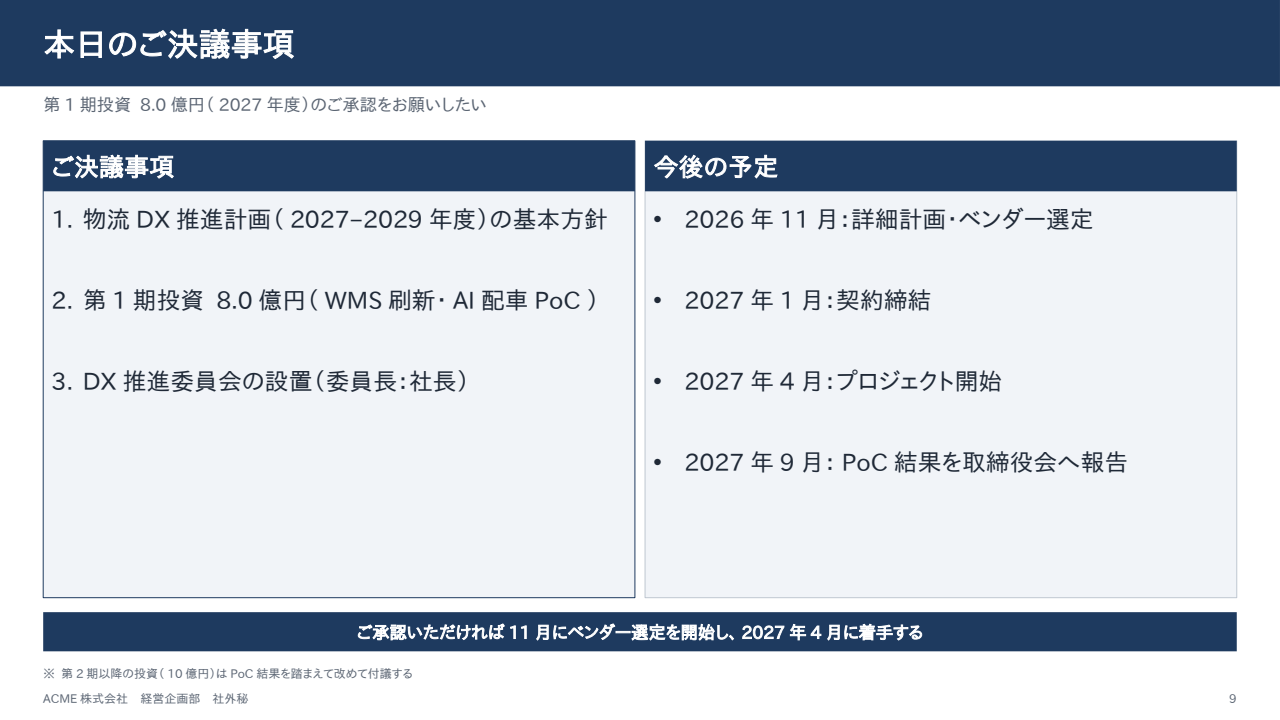
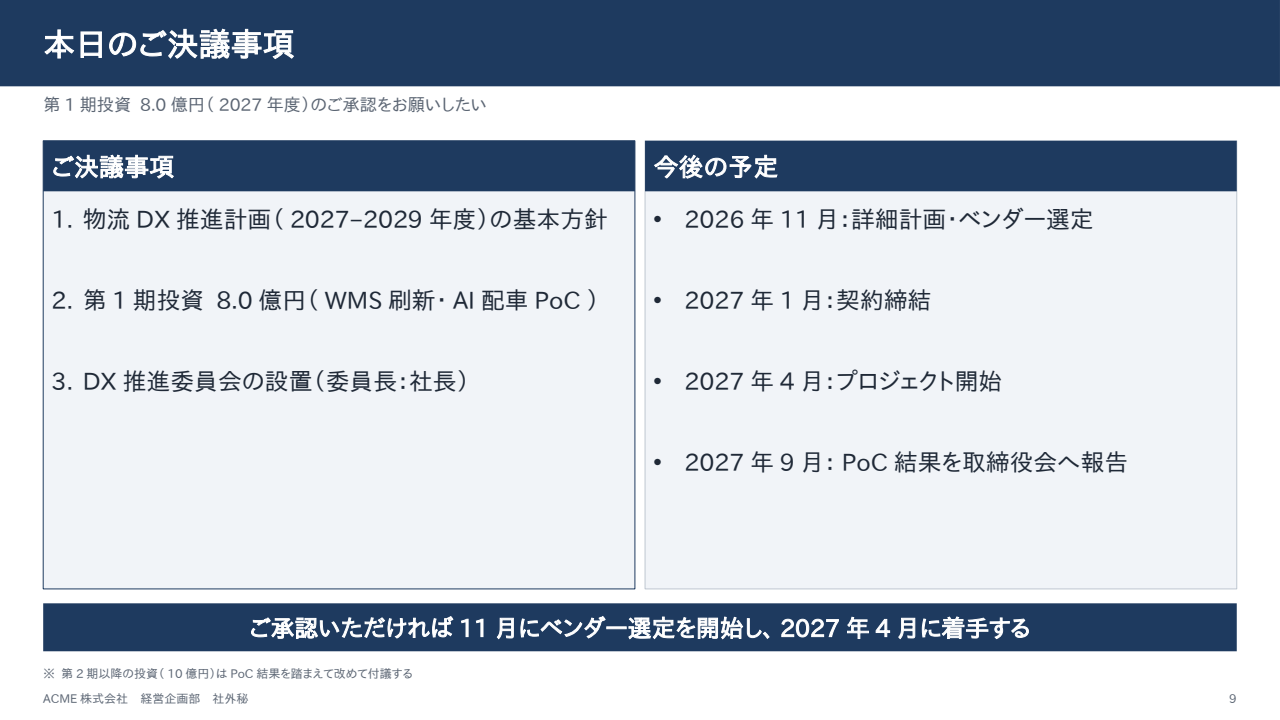
Run 7: gallery, bench, daily log, plan leftovers, lessons
Claude-Session: https://claude.ai/code/session_012bJdYHZe1RzpPkJoMDLmbZ

Changed region(s): [[0.0312, 0.825, 0.9688, 0.8861]]

diff --git a/docs/DAILY_LOG.md b/docs/DAILY_LOG.md
@@ -103,12 +103,16 @@ Run goal:
 - Problems: setup needed `.[dev,html]` (8 HTML tests failed without Playwright); one GitHub 500 on push (retried).
 - Next: AC4 gate decision (owner), L3 card row above a conclusion bar, decision slides (content-bound empty band).
 
-## 2026-10-06 (run 7, chained manual, L3 consulting-grade, 00:23 UTC–)
+## 2026-10-06 (run 7, chained manual, L3 consulting-grade, 00:23–03:35 UTC)
 Run goal:
-- [ ] Card rows / 2x2 grids reach the conclusion bar (no empty bottom 40%), decision slides 11 s9 / 16 s10, risk 11 s8
-- [ ] Conclusion bar keeps a gap above the footnote
-- [ ] Org chart / issue tree fill the body (bigger boxes + text), 11 s6, 16 s5
-- [ ] Roadmap table: compact header row, two-row merged header (year over halves), 16 s9
-- [ ] Lone chevron rows: text grows inside tall chevrons
-- [ ] Independent designer re-score of examples/11 + 16; L3 gate verdict
-- [ ] AC (gate text unchanged): shrink SKILL.md / output tokens without losing first-pass success
+- [x] Card rows / 2x2 grids reach the conclusion bar with one gutter; hollow cards spread capped + top-anchored
+- [x] Conclusion bar: gutter above the footnote, text ≥ card body text, stays one line when it fits
+- [x] Org charts / issue trees fill the body; a lone root widens until its heading fits one line
+- [x] Roadmap: compact header rows, `{header=2}` merged headers centered (examples/16 s9), importer keeps `header=2`
+- [x] Lone chevron rows taller + optically centered; chevrons above tables grow text; lone KPI rows hug content
+- [ ] L3 gate: same-prompt designer re-score 3 / 3 (19: 2.5–3), still "no" (sparse decision cards vs big text, chevron/table columns)
+- [x] AC (gate unchanged): SKILL.md 2,884 → 2,856 tokens; smoke c05/c08 skill-only 3 calls, 0 images, accepted, cost unchanged
+- Done: 5 waves, 10 Sonnet coding agents + 2 review + 2 eval agents. Also nice value-axis max, 180% gaps for ≤ 3 bars, composed covers, stretched-table text, no-new-wrap table guard, `2027–2029` kept whole (U+2060), preview retry, examples/19 (VI brand stress deck).
+- Metrics: tests 1663 passed (1577 at start); q3 155 tokens = 30% of python-pptx, markup 13–27% (unchanged); round trip 117/119 (2 pre-existing); card tails > 25%: 26 → 20 / 104.
+- Problems: 21 spurious LibreOffice failures when pytest runs overlapped (retry added); wave-2 hollow spread (5.5 em gaps) looked broken → capped; reviewers contradict run to run.
+- Next: chevron rows aligned to table columns, decision slides (content-bound), `.muted` cards read as disabled, conclusion bar vs footer gap without a footnote.

diff --git a/docs/LESSONS.md b/docs/LESSONS.md
@@ -157,3 +157,6 @@ One line per item: `[area] problem → fix`. Newest at the bottom. Read before s
 - [layout] Sparse-slide table growth (`_table_geom` grow/unify/tgrow) accepted cells that wrap in the render (19 s4 at 22pt: `Thí / điểm`); the "rows over the cap" check misses wraps inside rows → `_no_new_wraps`: a cell that fits one line on a 12% narrower column must still fit after growth.
 - [render] LibreOffice/PowerPoint break after a dash or slash inside `2027–2029`; the model kept it whole → render puts U+2060 around a dash/slash between digits, measure treats U+2060 as zero width, the importer strips it.
 - [eval] Designer reviewers disagree run to run (run 6: "fill the empty bottom"; run 7: "text floats in tall cards") → fix what both say (gaps, empty bands, chips, axis), keep geometry choices measurable, and re-score with the same prompt.
+- [render] Auto value axes round far up (117 → 140) in LibreOffice and PowerPoint → write a nice `c:max` + `c:majorUnit` (stacked: category sums, 6% headroom); the importer drops a `c:max` equal to the auto pick. Synthetic bold smears CJK badge glyphs → CJK badges are not bold.
+- [layout] A lone KPI row stretched to the full body leaves the number floating mid-card → `fit_lone_kpi` hugs content, grows the number, places the row at the optical center. Conclusion bar text follows the largest card body text (one trial layout) but shrinks back to stay on one line.
+- [process] Two agents appending to the same token block in theme.py conflict on merge with `<<<<<<<` markers around both blocks → keep both (delete the three marker lines) and run ruff before anything imports theme.

diff --git a/docs/PLAN.md b/docs/PLAN.md
@@ -471,3 +471,12 @@ Goal: L3 consulting-grade per the run-6 designer review; AC4 gate text unchanged
 - **Wave 5 B1 (`layout/engine.py`, `layout/l3fill.py`, `layout/vfill.py`):** a lone KPI row (eval c05 s2: four cards
   stretched to the full body, value floating mid-card) hugs its content, KPI values grow, the row sits at the optical center.
 - **Wave 5 B2 (`theme.py` role sizes / `render/`):** conclusion bar text never smaller than the card body text on its slide.
+- **Wave 5 status:** lone KPI rows hug content (card 5.05 → 2.51in, value 54 → 66pt, optical center); conclusion bar text ≥
+  card body text (13 → 17pt), one line when it fits. 1663 tests.
+
+## Leftovers for the next run
+- [ ] L3 consulting-grade: re-score 3/3 ("no"); open: chevron steps aligned to the table columns below, decision slides
+      (content-bound: sparse cards vs oversized text), `.muted` cards read as disabled, bar touching the footer without a
+      footnote, orphan last words in card list items (VI "đồng", "số")
+- [ ] AC4 (owner decision on the gate wording still pending); SKILL.md trims give ≤ 1–2 points (AGENT_COST.md floor analysis)
+- [ ] Owner: real PowerPoint check (gradients, shadows, customXml, media, per-point dLbl, U+2060 range joiners); PyPI token; L7 token gate

diff --git a/README.md b/README.md
@@ -53,7 +53,7 @@ Windows: `slidemark preview` / `review --png` tự tìm LibreOffice trong `C:\Pr
 ## Ảnh slide mẫu (cập nhật hằng ngày)
 
 <!-- gallery:start -->
-Cập nhật: 2026-10-06 · commit `9e87f5a` · tạo tự động bởi `scripts/gallery.py`.
+Cập nhật: 2026-10-06 · commit `d49bfc9` · tạo tự động bởi `scripts/gallery.py`.
 
 ### Cơ bản: tiêu đề, danh sách, box, bảng, biểu đồ
 
